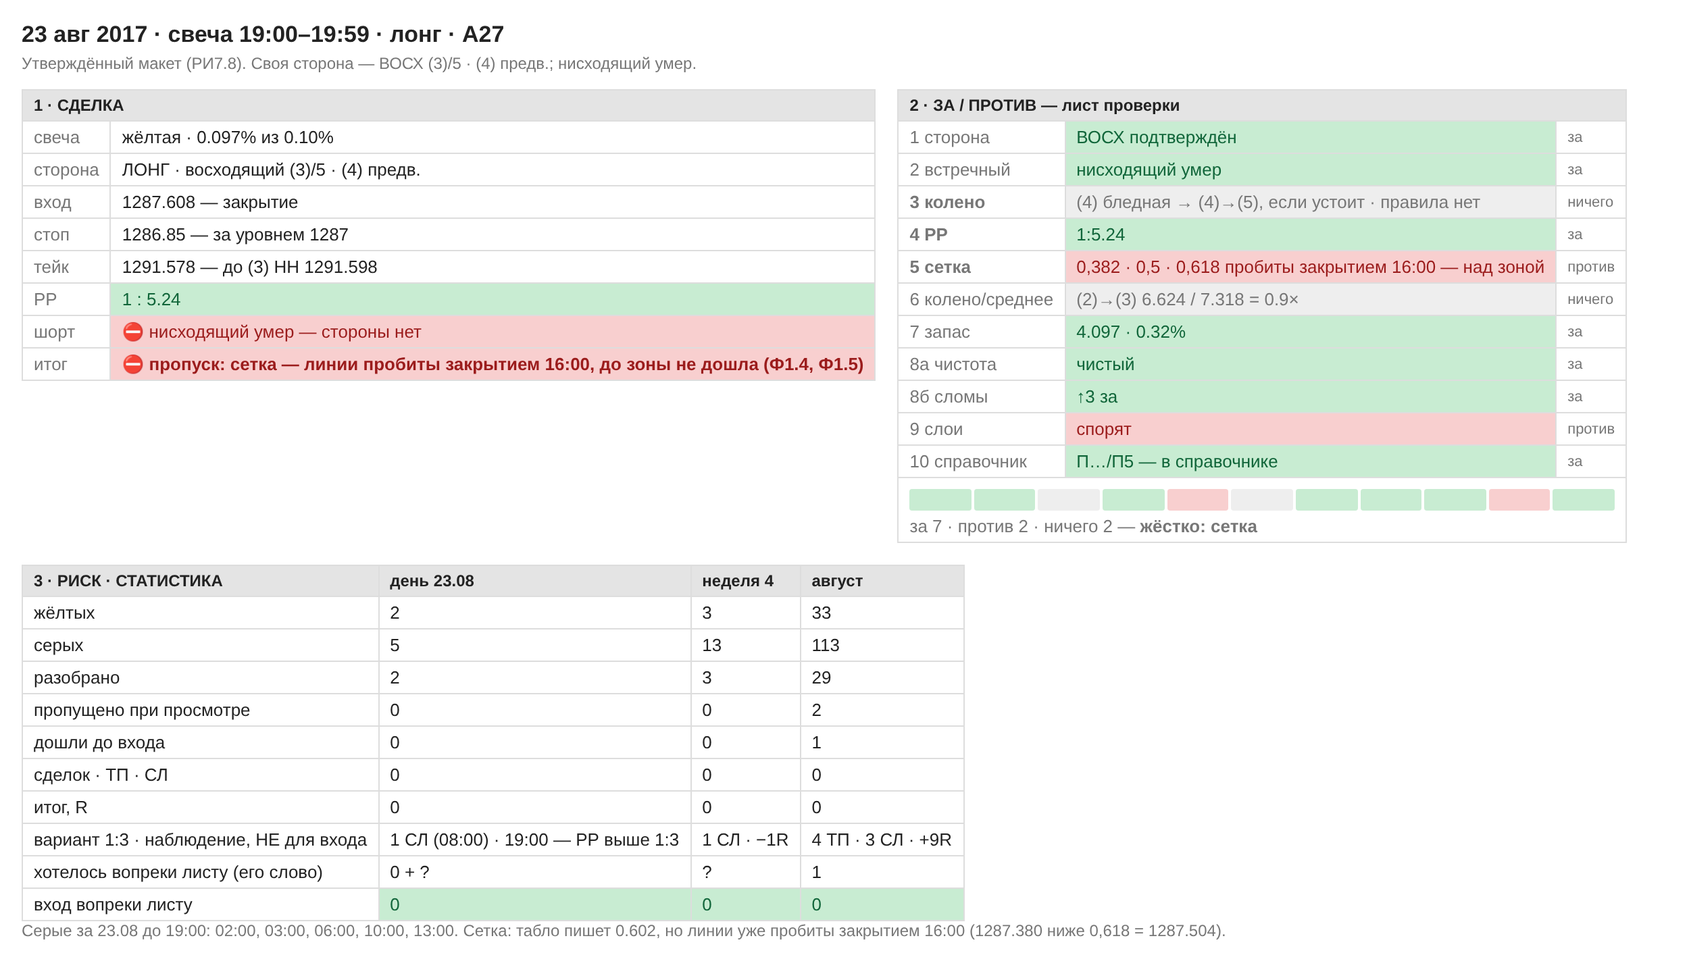
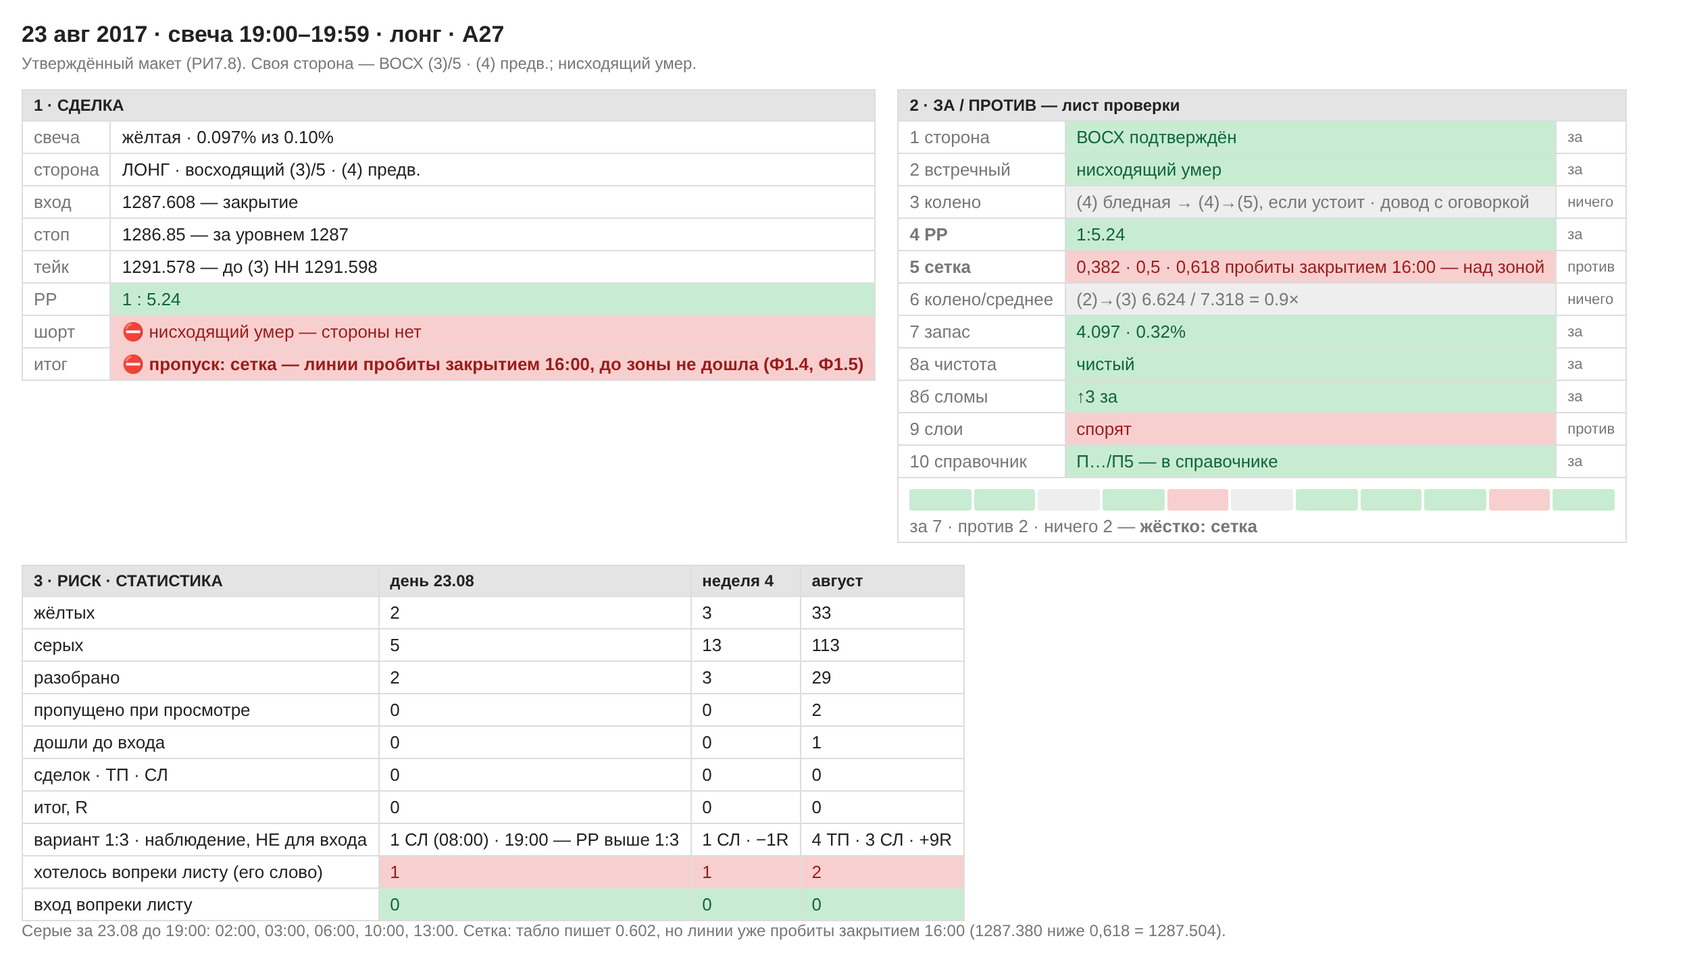
ТС8.13: бледная (4) — довод с оговоркой, его слово; А27 «хотелось в лонг вопреки листу» — 1
Claude-Session: https://claude.ai/code/session_01TnuyYeu48W8E686G1zottP

Changed region(s): [[0.2184, 0.8702, 0.5928, 0.9323], [0.8112, 0.1865, 0.9048, 0.2175], [0.5616, 0.1865, 0.5928, 0.2175]]

diff --git a/research/out/maket/2017-08-23_1900.html b/research/out/maket/2017-08-23_1900.html
@@ -6,4 +6,4 @@ table{border-collapse:collapse;min-width:360px}td,th{border:1px solid var(--ln);
 th{background:var(--h);font-size:12px}.blk td:first-child{color:var(--mut);white-space:nowrap}
 .g{background:var(--g);color:var(--gt)}.r{background:var(--r);color:var(--rt)}.n{background:var(--n);color:var(--mut)}
 .hard{font-weight:bold}.tag{font-size:11px;color:var(--mut)}
-.bar{display:flex;gap:2px;margin:4px 0}.bar span{flex:1;height:16px;border-radius:2px}</style></head><body><h1>23 авг 2017 · свеча 19:00–19:59 · лонг · А27</h1><p class="sub">Утверждённый макет (РИ7.8). Своя сторона — ВОСХ (3)/5 · (4) предв.; нисходящий умер.</p><div class="wrap"><table class="blk"><tr><th colspan="2">1 · СДЕЛКА</th></tr><tr><td>свеча</td><td class="">жёлтая · 0.097% из 0.10%</td></tr><tr><td>сторона</td><td class="">ЛОНГ · восходящий (3)/5 · (4) предв.</td></tr><tr><td>вход</td><td class="">1287.608 — закрытие</td></tr><tr><td>стоп</td><td class="">1286.85 — за уровнем 1287</td></tr><tr><td>тейк</td><td class="">1291.578 — до (3) HH 1291.598</td></tr><tr><td>РР</td><td class="g">1 : 5.24</td></tr><tr><td>шорт</td><td class="r">⛔ нисходящий умер — стороны нет</td></tr><tr><td>итог</td><td class="r hard">⛔ пропуск: сетка — линии пробиты закрытием 16:00, до зоны не дошла (Ф1.4, Ф1.5)</td></tr></table><table class="blk"><tr><th colspan="3">2 · ЗА / ПРОТИВ — лист проверки</th></tr><tr><td class="">1 сторона</td><td class="g">ВОСХ подтверждён</td><td class="tag">за</td></tr><tr><td class="">2 встречный</td><td class="g">нисходящий умер</td><td class="tag">за</td></tr><tr><td class="hard">3 колено</td><td class="n">(4) бледная → (4)→(5), если устоит · правила нет</td><td class="tag">ничего</td></tr><tr><td class="hard">4 РР</td><td class="g">1:5.24</td><td class="tag">за</td></tr><tr><td class="hard">5 сетка</td><td class="r">0,382 · 0,5 · 0,618 пробиты закрытием 16:00 — над зоной</td><td class="tag">против</td></tr><tr><td class="">6 колено/среднее</td><td class="n">(2)→(3) 6.624 / 7.318 = 0.9×</td><td class="tag">ничего</td></tr><tr><td class="">7 запас</td><td class="g">4.097 · 0.32%</td><td class="tag">за</td></tr><tr><td class="">8а чистота</td><td class="g">чистый</td><td class="tag">за</td></tr><tr><td class="">8б сломы</td><td class="g">↑3 за</td><td class="tag">за</td></tr><tr><td class="">9 слои</td><td class="r">спорят</td><td class="tag">против</td></tr><tr><td class="">10 справочник</td><td class="g">П…/П5 — в справочнике</td><td class="tag">за</td></tr><tr><td colspan="3"><div class="bar"><span class="g"></span><span class="g"></span><span class="n"></span><span class="g"></span><span class="r"></span><span class="n"></span><span class="g"></span><span class="g"></span><span class="g"></span><span class="r"></span><span class="g"></span></div>за 7 · против 2 · ничего 2 — <b>жёстко: сетка</b></td></tr></table><table><tr><th>3 · РИСК · СТАТИСТИКА</th><th>день 23.08</th><th>неделя 4</th><th>август</th></tr><tr><td>жёлтых</td><td class="">2</td><td class="">3</td><td class="">33</td></tr><tr><td>серых</td><td class="">5</td><td class="">13</td><td class="">113</td></tr><tr><td>разобрано</td><td class="">2</td><td class="">3</td><td class="">29</td></tr><tr><td>пропущено при просмотре</td><td class="">0</td><td class="">0</td><td class="">2</td></tr><tr><td>дошли до входа</td><td class="">0</td><td class="">0</td><td class="">1</td></tr><tr><td>сделок · ТП · СЛ</td><td class="">0</td><td class="">0</td><td class="">0</td></tr><tr><td>итог, R</td><td class="">0</td><td class="">0</td><td class="">0</td></tr><tr><td>вариант 1:3 · наблюдение, НЕ для входа</td><td class="">1 СЛ (08:00) · 19:00 — РР выше 1:3</td><td class="">1 СЛ · −1R</td><td class="">4 ТП · 3 СЛ · +9R</td></tr><tr><td>хотелось вопреки листу (его слово)</td><td class="">0 + ?</td><td class="">?</td><td class="">1</td></tr><tr><td>вход вопреки листу</td><td class="g">0</td><td class="g">0</td><td class="g">0</td></tr></table></div><p class="sub">Серые за 23.08 до 19:00: 02:00, 03:00, 06:00, 10:00, 13:00. Сетка: табло пишет 0.602, но линии уже пробиты закрытием 16:00 (1287.380 ниже 0,618 = 1287.504).</p></body></html>
+.bar{display:flex;gap:2px;margin:4px 0}.bar span{flex:1;height:16px;border-radius:2px}</style></head><body><h1>23 авг 2017 · свеча 19:00–19:59 · лонг · А27</h1><p class="sub">Утверждённый макет (РИ7.8). Своя сторона — ВОСХ (3)/5 · (4) предв.; нисходящий умер.</p><div class="wrap"><table class="blk"><tr><th colspan="2">1 · СДЕЛКА</th></tr><tr><td>свеча</td><td class="">жёлтая · 0.097% из 0.10%</td></tr><tr><td>сторона</td><td class="">ЛОНГ · восходящий (3)/5 · (4) предв.</td></tr><tr><td>вход</td><td class="">1287.608 — закрытие</td></tr><tr><td>стоп</td><td class="">1286.85 — за уровнем 1287</td></tr><tr><td>тейк</td><td class="">1291.578 — до (3) HH 1291.598</td></tr><tr><td>РР</td><td class="g">1 : 5.24</td></tr><tr><td>шорт</td><td class="r">⛔ нисходящий умер — стороны нет</td></tr><tr><td>итог</td><td class="r hard">⛔ пропуск: сетка — линии пробиты закрытием 16:00, до зоны не дошла (Ф1.4, Ф1.5)</td></tr></table><table class="blk"><tr><th colspan="3">2 · ЗА / ПРОТИВ — лист проверки</th></tr><tr><td class="">1 сторона</td><td class="g">ВОСХ подтверждён</td><td class="tag">за</td></tr><tr><td class="">2 встречный</td><td class="g">нисходящий умер</td><td class="tag">за</td></tr><tr><td class="">3 колено</td><td class="n">(4) бледная → (4)→(5), если устоит · довод с оговоркой</td><td class="tag">ничего</td></tr><tr><td class="hard">4 РР</td><td class="g">1:5.24</td><td class="tag">за</td></tr><tr><td class="hard">5 сетка</td><td class="r">0,382 · 0,5 · 0,618 пробиты закрытием 16:00 — над зоной</td><td class="tag">против</td></tr><tr><td class="">6 колено/среднее</td><td class="n">(2)→(3) 6.624 / 7.318 = 0.9×</td><td class="tag">ничего</td></tr><tr><td class="">7 запас</td><td class="g">4.097 · 0.32%</td><td class="tag">за</td></tr><tr><td class="">8а чистота</td><td class="g">чистый</td><td class="tag">за</td></tr><tr><td class="">8б сломы</td><td class="g">↑3 за</td><td class="tag">за</td></tr><tr><td class="">9 слои</td><td class="r">спорят</td><td class="tag">против</td></tr><tr><td class="">10 справочник</td><td class="g">П…/П5 — в справочнике</td><td class="tag">за</td></tr><tr><td colspan="3"><div class="bar"><span class="g"></span><span class="g"></span><span class="n"></span><span class="g"></span><span class="r"></span><span class="n"></span><span class="g"></span><span class="g"></span><span class="g"></span><span class="r"></span><span class="g"></span></div>за 7 · против 2 · ничего 2 — <b>жёстко: сетка</b></td></tr></table><table><tr><th>3 · РИСК · СТАТИСТИКА</th><th>день 23.08</th><th>неделя 4</th><th>август</th></tr><tr><td>жёлтых</td><td class="">2</td><td class="">3</td><td class="">33</td></tr><tr><td>серых</td><td class="">5</td><td class="">13</td><td class="">113</td></tr><tr><td>разобрано</td><td class="">2</td><td class="">3</td><td class="">29</td></tr><tr><td>пропущено при просмотре</td><td class="">0</td><td class="">0</td><td class="">2</td></tr><tr><td>дошли до входа</td><td class="">0</td><td class="">0</td><td class="">1</td></tr><tr><td>сделок · ТП · СЛ</td><td class="">0</td><td class="">0</td><td class="">0</td></tr><tr><td>итог, R</td><td class="">0</td><td class="">0</td><td class="">0</td></tr><tr><td>вариант 1:3 · наблюдение, НЕ для входа</td><td class="">1 СЛ (08:00) · 19:00 — РР выше 1:3</td><td class="">1 СЛ · −1R</td><td class="">4 ТП · 3 СЛ · +9R</td></tr><tr><td>хотелось вопреки листу (его слово)</td><td class="r">1</td><td class="r">1</td><td class="r">2</td></tr><tr><td>вход вопреки листу</td><td class="g">0</td><td class="g">0</td><td class="g">0</td></tr></table></div><p class="sub">Серые за 23.08 до 19:00: 02:00, 03:00, 06:00, 10:00, 13:00. Сетка: табло пишет 0.602, но линии уже пробиты закрытием 16:00 (1287.380 ниже 0,618 = 1287.504).</p></body></html>

diff --git a/indicator/ТАБЛО-НА-СВЕЧЕ.md b/indicator/ТАБЛО-НА-СВЕЧЕ.md
@@ -39,7 +39,7 @@
 | 18 авг 06:00 | А24 | скрин | **ВОСХ** / **НИСХ** | (2) / **(5)** | ↑ чистый, ↓2 ПРОТИВ · ↓ чистый, ↓2 за | согласны (вниз) | 0.21% (ближе к концу) | 8.208 / 7.450 (данные) | у НИСХ колено мелкое — сетки нет | лонг 1:1.71 · шорт 1:1.19 | пропуск: лонг — РР; шорт — (5), РР | лонг — тейк у вершины **взят** в 10:00 (и 1:3 тоже) |
 | 21 авг 07:00 | А25 | скрин | **ВОСХ** / возможен | (4)·**(5) предв.** / (1)·(2) предв. | ↑ манипуляция, ↓3 ПРОТИВ, вне справ. · ↓ чистый, ↓3 за | согласны (вниз) | 0.54% (ближе к концу) | 14.930 / 8.369 | ВОСХ `(2)→(3)`, отменена — вышла за 0,79 | **лонг 1:14.85** · шорт 1:4.06 | **пропуск**: лонг — бледная (5), его слово «пока бледная — не входим» (ТС8.13); шорт — «возможен» на коррекции (А15) | лонг — **стоп** в 08:00, ТС8.13 уберёг 1R · шорт — **стоп** в 09:00 |
 | 23 авг 08:00 | А26 | скрин | возможен / **НИСХ** | (1) / **(0)** продолж. | ↑ чистый, ↓5 ПРОТИВ · ↓ чистый, ↓5 за | спорят | ↓ 0.04% (ближе к концу) | 9.177 / 8.252 (данные) | у ВОСХ `(0)→(1)`, 0.25 — не дошла до 0,382 | шорт 1:2.35 · лонг 1:1.50 | пропуск: шорт — РР; лонг — коррекция `(1)→(2)` | шорт — **стоп** в 09:00 (и 1:3 тоже) · лонг — тейк 1:1.50 взят бы там же |
-| 23 авг 19:00 | А27 | скрин | **ВОСХ** / умер | (3)·**(4) предв.** / — | ↑ чистый, ↑3 за | спорят (читается неуверенно) | 0.32% | 6.624 / 7.318 | ВОСХ `(2)→(3)`, табло 0.602 · по Ф1.5 линии пробиты закрытием 16:00 — между | **лонг 1:5.24** | пропуск: сетка (Ф1.4, Ф1.5); ❓ бледная (4) | — идёт |
+| 23 авг 19:00 | А27 | скрин | **ВОСХ** / умер | (3)·**(4) предв.** / — | ↑ чистый, ↑3 за | спорят (читается неуверенно) | 0.32% | 6.624 / 7.318 | ВОСХ `(2)→(3)`, табло 0.602 · по Ф1.5 линии пробиты закрытием 16:00 — между | **лонг 1:5.24** | пропуск: сетка (Ф1.4, Ф1.5); бледная (4) — довод с оговоркой · **хотелось в лонг вопреки листу** | — идёт |
 
 ⚠ **8 авг 03:00 — табло на бар позади.** На закрытии свечи было уже
 **(2)** и **ВОСХ**; на графике он видел (1) и «возможен» — З77, починено в
@@ -272,7 +272,7 @@ v3.44 (на проверке).
 | 9 | слои согласны / спорят | `серия и уровни` | А6, А7, А19 |
 | 10 | справочник: в нём / вне | `посл-ть` | А7 |
 
-**Жёсткие — решают сами:** 0 свеча, 3 колено (✅ **18.11, ТС8.13: бледная «(5) предв.» своей стороны = против, жёстко**), 4 РР, 5 «между линиями»,
+**Жёсткие — решают сами:** 0 свеча, 3 колено (✅ **18.11, ТС8.13: бледная «(5) предв.» своей стороны = против, жёстко; бледная «(4) предв.» — довод с оговоркой, А27**), 4 РР, 5 «между линиями»,
 и **2, если «возможен» родился на коррекции основного** (А15). **Мягкие** —
 1, 6–10: доводы, голоса не считаются (ТС8.9).
 

diff --git a/indicator/КАК-ТОРГУЮ.md b/indicator/КАК-ТОРГУЮ.md
@@ -53,7 +53,7 @@
 | **А24** | 18.11.2026 | **18 августа 06:00** — скрин без слов | пропуск обе стороны: лонг (2)→(3) — РР 1:1.71 до (1) 1289.462; шорт — нисходящий (5)/5 и РР 1:1.19 · В36: лонг 1:3, тейк 1291.15 |
 | **А25** | 18.11.2026 | **21 августа 07:00** — скрин без слов | лонг: РР 1:14.85 до (3) HH 1300.926, но бледная **(5) предв.** уже стоит — ✅ **пропуск, его новое правило «пока бледная — не входим» (ТС8.13)** · шорт: нисх. «возможен», родился на коррекции `(3)→(4)` восх. (А15) |
 | **А26** | 18.11.2026 | **23 августа 08:00** — скрин без слов | пропуск обе стороны: шорт — продолжение нисх. (0)/5, РР 1:2.35 до (5) LL 1282.053; лонг — восх. «возможен» (1)/5, коррекция `(1)→(2)` · В36: шорт 1:3, тейк 1281.094 |
-| **А27** | 18.11.2026 | **23 августа 19:00** — скрин без слов | лонг: РР 1:5.24 до (3) HH 1291.598, закрыла **сетка** — все три линии пробиты закрытием 16:00, до зоны не дошла (Ф1.4, Ф1.5) · ❓ бледная (4) — правила нет · шорта нет, нисх. умер |
+| **А27** | 18.11.2026 | **23 августа 19:00** — скрин без слов | лонг: РР 1:5.24 до (3) HH 1291.598, закрыла **сетка** — все три линии пробиты закрытием 16:00, до зоны не дошла (Ф1.4, Ф1.5) · бледная (4) — довод с оговоркой (его слово) · **хотелось в лонг вопреки листу** · шорта нет, нисх. умер |
 
 ---
 
@@ -3741,3 +3741,11 @@ HH 1300.926** (ТС8.10).
 
 **Макет:** `research/out/maket/2017-08-23_1900.png`. ❓ «Хотелось вопреки
 листу» — спрошено.
+
+**Ответ, 18.11.2026:** «1. да, довод с оговоркой 2. желание есть зайти в лонг».
+
+| | |
+|---|---|
+| бледная (4) | ✅ **довод с оговоркой, не запрет** — `ПРАВИЛА-ТРИГГЕР.md` ТС8.13, строка «бледная (4)». В листе пункт 3 мягкий |
+| «хотелось вопреки листу» | **1** — лонг. Второй раз в августе (первый — 16 авг 07:00, тоже лонг). Входа нет: вход вопреки листу **0** |
+| что закрыло | только **сетка**, жёсткий пункт; мягкие 7 за : 2 против, РР 1:5.24. Впервые желание возникло там, где лист закрыт ОДНИМ пунктом при почти всех «за» — в 16 авг 07:00 желание шло против самой стороны листа |

diff --git a/indicator/ПРАВИЛА-ТРИГГЕР.md b/indicator/ПРАВИЛА-ТРИГГЕР.md
@@ -1229,6 +1229,7 @@ v3.30 умерла, перебрав на 88 токенов. Вылечили в
 | **в листе** | пункт 3 «колено с учётом предв.» — жёсткий; бледная (5) на своей стороне = **против, жёстко** |
 | **история** | в А18 (11 авг 02:00) он назвал бледную (5) доводом против, но решил РР. Правилом стало в А25 (21 авг 07:00), где РР был 1:14.85 и решал именно этот пункт |
 | ❓ **не сказано** | бледные других номеров — «(3) предв.» и т.п. Его слово было про (5) |
+| ✅ **бледная (4)** | **18.11.2026, А27, его слово «да, довод с оговоркой»** — НЕ запрет. Показывает, что коррекция `(3)→(4)` возможно кончилась и пошло торгуемое `(4)→(5)`; уйдёт цена под неё — ещё коррекция. В листе пункт 3 мягкий. Остальные бледные (1)–(3) — по-прежнему не сказано |
 
 Разбор — `КАК-ТОРГУЮ.md` **А25**.
 
